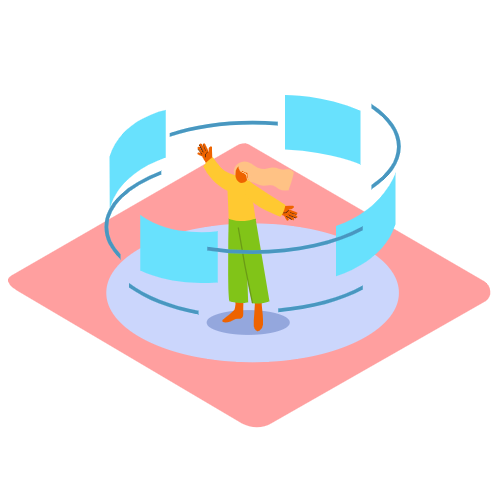
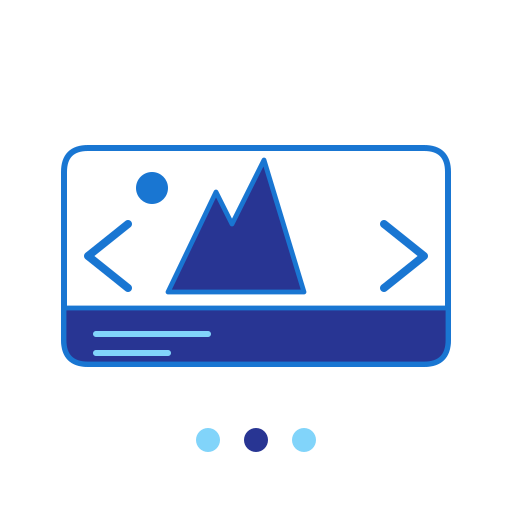
feat: update thumbnail

diff --git a/src/main.ts b/src/main.ts
@@ -19,18 +19,20 @@ import { createConfig } from '@/composables/config'
 // Must be at module level, BEFORE createApp().
 ;(window as { vIframeOptions?: { reactiveParams: typeof reactiveSearchParams } }).vIframeOptions = { reactiveParams: reactiveSearchParams }
 
+// createI18n doit être créé au niveau module pour que les composants de
+// @data-fair/lib-vuetify (ui-notif, layout-empty-state, ...) puissent l'utiliser
+// dès leur évaluation.
+const i18n = createI18n({ legacy: false, locale: 'fr', fallbackLocale: 'en' })
+
 async function init () {
   const session = await createSession({ directoryUrl: '/simple-directory', siteInfo: true })
+  i18n.global.locale.value = session.lang.value
   const app = createApp(App)
   app.use(createVuetify({
     ...vuetifySessionOptions(session),
     icons: { defaultSet: 'mdi', aliases, sets: { mdi } }
   }))
-  app.use(createI18n({
-    legacy: false,
-    locale: session.lang.value,
-    fallbackLocale: 'en'
-  }))
+  app.use(i18n)
   app.use(createReactiveSearchParams())
   app.use(createUiNotif())
   app.use(createLocaleDayjs(session.lang.value))
